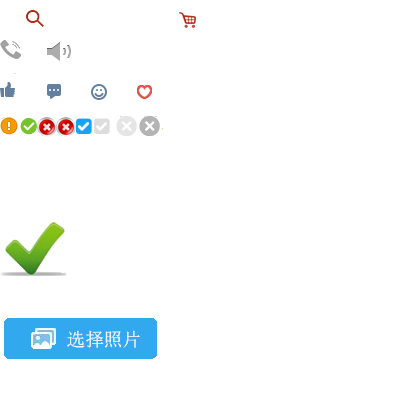
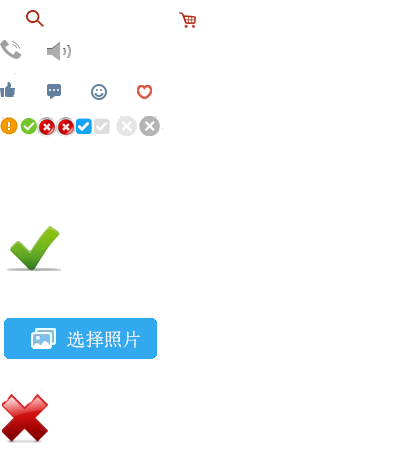
增加支付失败提示

diff --git a/public/html/pay-successful.html b/public/html/pay-successful.html
@@ -11,11 +11,8 @@
 <body>
     <div class="wrapper w">
         <div class="pay-panel">
-            <div class="pay-panel-head">
-                <span class="icon"></span>
-                <p>恭喜你支付成功！请等待系统为你揭晓结果</p>
-                <p>你可以 <a href="">查看云购记录</a>或<a href="">继续购物</a> </p>
-                <p>总共成功云购1件商品，信息如下</p>
+            <div class="panel-head">
+                <h2 class="title-chg"><span class="icon icon-succeed"></span>恭喜您成功购买<b><?php echo count($orders); ?></b>件商品，信息如下</h2>
             </div>
             <table>
                 <thead>
@@ -35,6 +32,12 @@
                     </tr>
                 </tbody>
             </table>
+        </div>
+        <!--失败-->
+        <div  class="pay-panel">
+            <div class="panel-head">
+                <h2 class="title-chg"><span class="icon icon-error"></span>支付失败！</h2>
+            </div>
         </div>
     </div>
 </body>

diff --git a/public/assets/css/style.css b/public/assets/css/style.css
@@ -1341,12 +1341,6 @@ label.error{
 .noData{
     width: 40%;
     height: 22px;
-    line-height: 22px;
-    margin: 30px auto 0;
-}
-.noData{
-    width: 40%;
-    height: 22px;
     text-align: center;
     line-height: 22px;
     margin: 30px auto 0;
@@ -1679,13 +1673,13 @@ label.error{
    color: #5a5a5a;
 }
 .game-column ul li .game-count dd{
-    float: left;
-    overflow: hidden;
-    height: 50px;
-    line-height: 50px;
-    text-align: center;
-    font-size: 14px;
-    color: #5a5a5a;
+   float: left;
+   overflow: hidden;
+   height: 50px;
+   line-height: 50px;
+   text-align: center;
+   font-size: 14px;
+   color: #5a5a5a;
 }
 .game-column ul li .imgBox{
     width: 230px;
@@ -1718,7 +1712,6 @@ label.error{
     width: 160px;
     overflow: hidden;
     float: left;
-    text-decoration: line-through;
 }
 .game-column ul li .lol-btn-sm{
     float: right;

diff --git a/public/assets/css/common.css b/public/assets/css/common.css
@@ -720,6 +720,12 @@ table td p.tl{
    vertical-align: middle;
    background-position: 0 -224px;
 }
+.icon-error{
+    width:65px;
+    height: 50px;
+    vertical-align: middle;
+    background-position: 0 -395px;
+}
 .icon-arrow{
     width: 24px;
     height: 16px;
